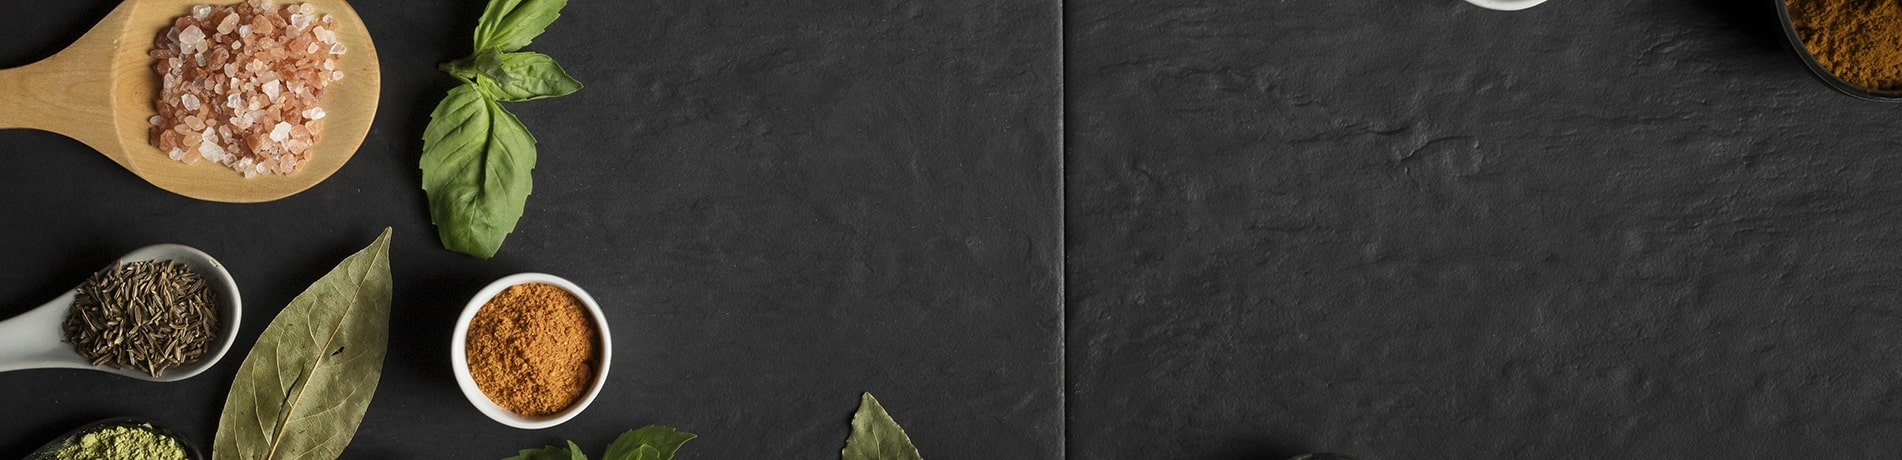
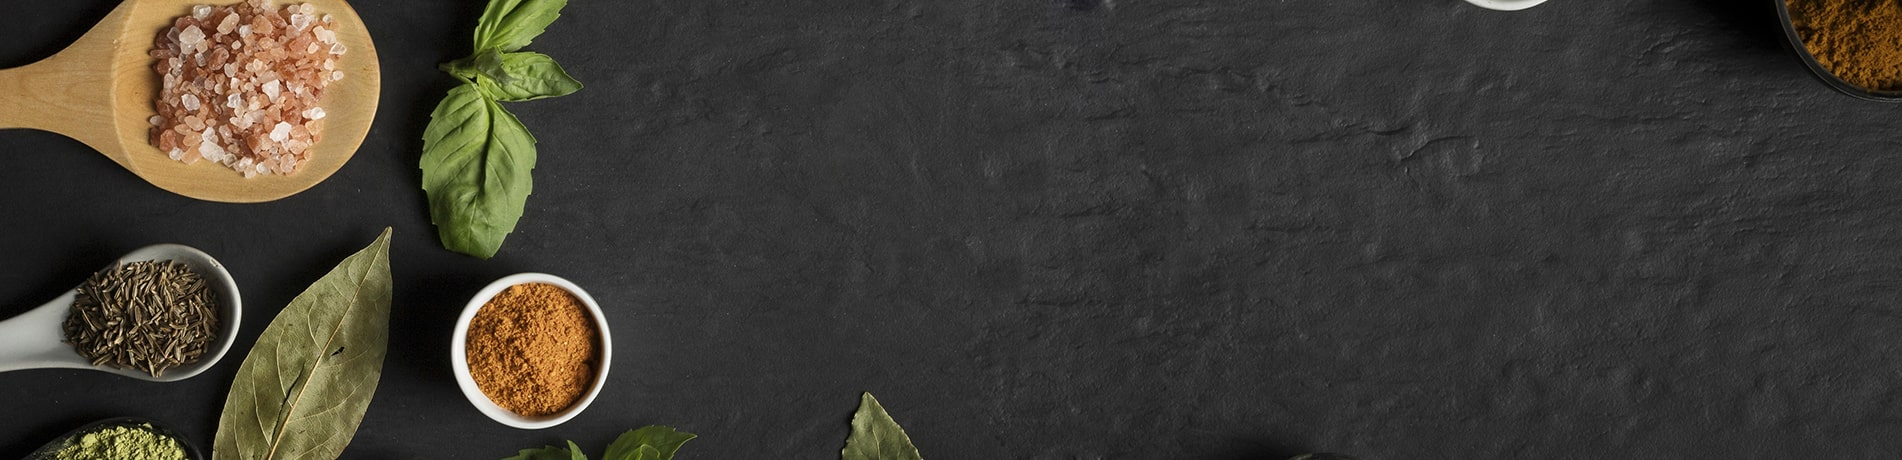
sua home

diff --git a/resources/views/pages/flash_sale/single.blade.php b/resources/views/pages/flash_sale/single.blade.php
@@ -12,8 +12,8 @@
                             <div class="layout__region layout__region--content">
                                 <div class="c-page-header c-page-header--light">
                                     <picture class="c-page-header__image">
-                                        <source media="(min-width: 1024px)" data-srcset="/storage/uploads/frontier-prime-cuts-1440x660-1627696550.jpg" srcset="/storage/uploads/frontier-prime-cuts-1440x660-1627696550.jpg">
-                                        <img class=" lazyloaded" data-src="/storage/uploads/frontier-prime-cuts-1440x660-1627696550.jpg" alt="blogs-1440x380-1626419645.jpg" src="/storage/uploads/frontier-prime-cuts-1440x660-1627696550.jpg">
+                                        <source media="(min-width: 1024px)" data-srcset="{{ asset('/images/banner_page/banner-combo-03.jpg') }}" srcset="{{ asset('/images/banner_page/banner-combo-03.jpg') }}">
+                                        <img class=" lazyloaded" data-src="{{ asset('/images/banner_page/banner-combo-03.jpg') }}" alt="{{ $uni_flashsale->name }}" src="{{ asset('/images/banner_page/banner-combo-03.jpg') }}">
                                     </picture>
 
                                     <div class="c-page-header__content">
@@ -49,7 +49,7 @@
                                         Chi tiết gói sale: {{ $uni_flashsale->name }}
                                     </p>
                                     <p title="products" class="page_heading font-weight-nomal">
-                                        Mô tả: {!! $uni_flashsale->content !!}
+                                       {!! $uni_flashsale->content !!}
                                     </p>
                                     <div class="row group-sale mt-5 mb-5 p-5">
                                         <h3 class="title-product-sale">Sản phẩm trong gói sale</h3>
@@ -91,7 +91,7 @@
                                             <button class=" w-25 text-center mx-auto btn-add-cart-sale js-add-cart" data-url="{{ route('get_user.cart.add',['id' => $uni_flashsale->id,'type' => 'combo']) }}" 
                                                 data-uid="{{ get_data_user('web') }}" data-id="{{ $uni_flashsale->id }}" type="button">Mua ngay</button>
                                             @else
-                                            <button class=" w-25 text-center mx-auto btn-add-cart-sale redect-b2b" data-url = "{{ route('get.register.b2b') }}"  
+                                            <button class=" w-25 text-center mx-auto btn-add-cart-sale redect-b2b" data-url = "{{ route('get.login') }}"  
                                             class="a-btn a-btn--primary m-product-card__add-to-cart-btn {{ get_data_user('web') != null ? 'js-add-cart':'' }}" 
                                             data-url="{{ route('get_user.cart.add',['id' => $uni_flashsale->id,'type' => 'combo']) }}" data-uid="{{ get_data_user('web') }}" 
                                             data-id="{{ $uni_flashsale->id }}" type="button" type="button">Mua ngay</button>

diff --git a/resources/views/pages/home/home.blade.php b/resources/views/pages/home/home.blade.php
@@ -448,13 +448,12 @@
                                                             </div>
                                                             <div class="m-mini-product-card__info">
                                                                 <div class="m-combined-product-name">
-                                                                    <span class="a-folio font_chu_home"
-                                                                        style="--color-brand: var(--color-simply-organic)">
-                                                                        {{ $item->name }}
-                                                                    </span>
-                                                                    <br>
-                                                                    <span class="a-product-name">
-                                                                        {{ desscription_cut($item->desscription, 60) }}
+                                                                    <div class="m-category-card__caption">
+                                                                        <span
+                                                                            class="m-category-card__caption-text">{{ $item->name }}</span>
+                                                                    </div>
+                                                                    <span class="a-product-name card-text">
+                                                                        {{ $item->desscription }}
                                                                     </span>
                                                                 </div>
                                                                 <div class="m-mini-product-card__price">

diff --git a/resources/views/pages/flash_sale/index.blade.php b/resources/views/pages/flash_sale/index.blade.php
@@ -240,8 +240,8 @@
                                 <div class="banner-flash">
                                     <div class="c-page-header c-page-header--centered c-page-header--light">
                                         <picture class="c-page-header__image">
-                                            <source media="(min-width: 1024px)" data-srcset="{{ asset('/images/banner_page/banner-combo-01.jpg') }}" srcset="{{ asset('/images/banner_page/banner-combo-01.jpg') }}">
-                                            <img class=" lazyloaded" data-src="{{ asset('/images/banner_page/banner-combo-01.jpg') }}" alt="Trở thành đại lý" src="{{ asset('/images/banner_page/banner-combo-01.jpg') }}">
+                                            <source media="(min-width: 1024px)" data-srcset="{{ asset('/images/banner_page/banner-combo-02.jpg') }}" srcset="{{ asset('/images/banner_page/banner-combo-02.jpg') }}">
+                                            <img class=" lazyloaded" data-src="{{ asset('/images/banner_page/banner-combo-02.jpg') }}" alt="Trở thành đại lý" src="{{ asset('/images/banner_page/banner-combo-02.jpg') }}">
                                         </picture>
 
                                         <div class="c-page-header__content">

diff --git a/app/Http/Controllers/Frontend/HomeController.php b/app/Http/Controllers/Frontend/HomeController.php
@@ -64,7 +64,7 @@ class HomeController extends Controller
         $trade = Uni_Trade::where('status', 1)
             ->orderBy('id', 'asc')
             ->get();
-        $product_groupId = Product_Trade::where('trade_id', 1)
+        $product_groupId = Product_Trade::where('trade_id', 3)
             ->pluck('product_id');
         $product_trade = Uni_Product::whereIn('id', $product_groupId)
         ->orderBy('id', 'asc')

diff --git a/routes/web.php b/routes/web.php
@@ -22,7 +22,7 @@ Route::get('/c', function () {
     $run = Artisan::call('cache:clear');
     $run = Artisan::call('route:clear');
     $run = Artisan::call('config:cache');
-    $run = Artisan::call('storage:link');
+    // $run = Artisan::call('storage:link');
 
     return 'FINISHED';
 });
